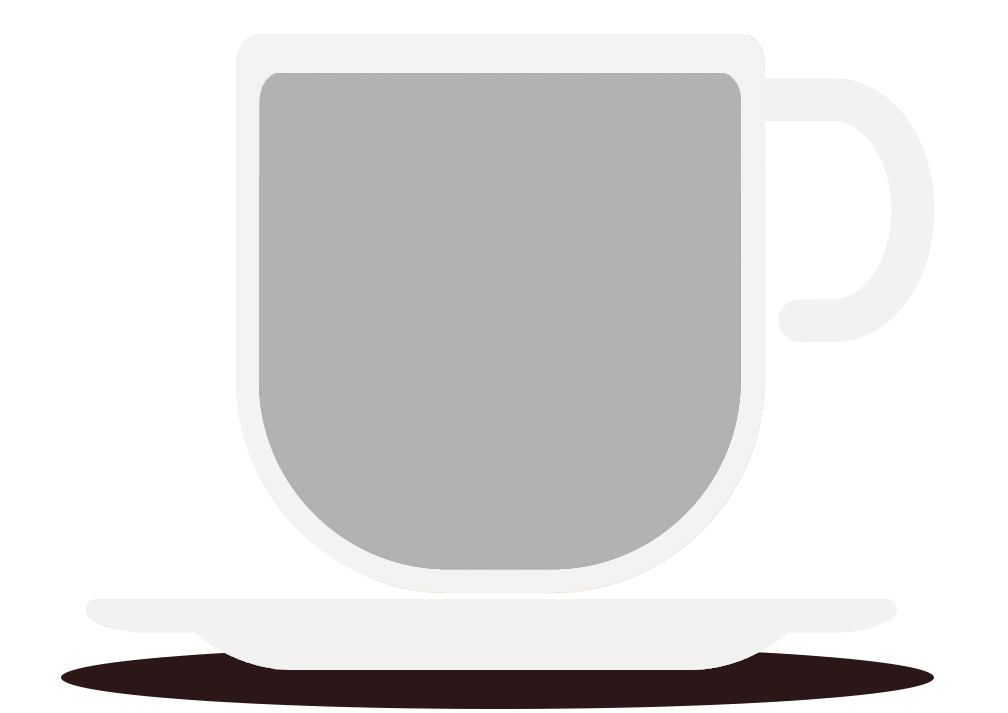
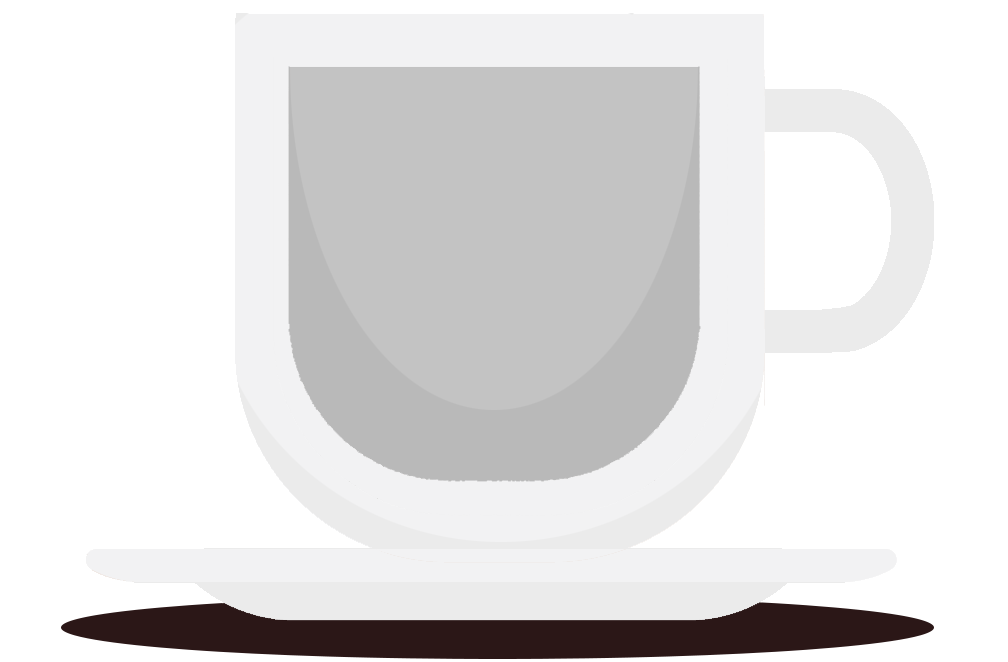
fixed coffee dynamic

diff --git a/cr-client/src/components/Cup.vue b/cr-client/src/components/Cup.vue
@@ -4,7 +4,7 @@
 
      </div>
      <div class="empty-cup"> 
-         <div class="full-cup" style="clip-path: clipPath;"></div>
+         <div class="full-cup" :style="{'clip-path': clipPath}"></div>
      </div>
      <div class="player-text"> 
 
@@ -19,7 +19,7 @@ export default {
   props: ["state"],
   computed: {
       clipPath () {
-          return "polygon(100% 10%, 100% 100%, 0 100%, 0 10%)";
+          return "polygon(100% 40%, 100% 100%, 0 100%, 0 40%)";
       }
   }
 };
@@ -36,11 +36,10 @@ export default {
         @extend .vertical-align;
         width: 100%;
         height: 100%;
-        flex-shrink: 2;
-
-        background: blue;
-        @media(max-width: $breakpointC){
-            flex-shrink: 1;
+        // flex-shrink: 1.5;
+        // background: blue;
+        @media(max-width: 700px){
+            // flex-shrink: 1;
         }
     }
 
@@ -50,13 +49,38 @@ export default {
         background-size: contain; 
         background-repeat: no-repeat;
         background-position: bottom;
-        height: 100%;
-        // max-height: 347px; 
+        height: 30vh;
+        max-height: 280px;
         // background-color: pink;
+
+        @media(max-width: $breakpointA) {
+            // max-height: 48px; 
+        }
+        @media(max-width: $breakpointB) {
+            max-height: 255px; 
+        }
+        @media(max-width: $breakpointC) {
+            max-height: 190px; 
+        }
+        @media(max-width: $breakpointD) {
+            max-height: 170px; 
+        }
+        @media(max-width: $breakpointE) {
+            max-height: 135px;
+        }
+        @media(max-width: 410px) {
+            max-height: 110px;
+        }
+        @media(max-width: 325px) {
+            max-height: 90px;
+        }
+
+
         .full-cup {
             @extend .empty-cup;
-            height: 100%;
-            background-image: url("../assets/coffee.png");          
+            background-image: url("../assets/coffee.png"); 
+            transition: clip-path .5s;  
+            // clip-path: polygon(100% 80%, 100% 100%, 0 100%, 0 80%);      
         }
     }
     
